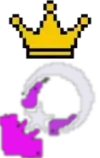
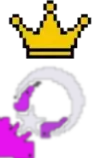
xcv

Changed region(s): [[0.0, 0.3797, 0.96, 1.0], [0.66, 0.8354, 0.69, 0.8608]]

diff --git a/files/templates/userpage.html b/files/templates/userpage.html
@@ -58,7 +58,7 @@
 								</span>
 								{% endif %}
 								{% if u.house %}
-									<img src="/assets/images/{{SITE_NAME}}/houses/{{u.house}}.webp?a=3" height="20" data-bs-toggle="tooltip" data-bs-placement="bottom" data-bs-original-title="House {{u.house}}">
+									<img src="/assets/images/{{SITE_NAME}}/houses/{{u.house}}.webp?a=4" height="20" data-bs-toggle="tooltip" data-bs-placement="bottom" data-bs-original-title="House {{u.house}}">
 								{% endif %}
 
 								{% if u.verified %}<span><i class="fas fa-badge-check align-middle ml-1" style="color:{% if u.verifiedcolor %}#{{u.verifiedcolor}}{% else %}#1DA1F2{% endif %}" data-bs-toggle="tooltip" data-bs-placement="bottom" data-bs-original-title="{{u.verified}}"></i></span>{% endif %}
@@ -353,7 +353,7 @@
 					{% if u.unban_utc %}<h5 class="text-primary">>{{u.unban_string}}</h5>{% endif %}
 				{% endif %}
 				{% if u.house %}
-					<img src="/assets/images/{{SITE_NAME}}/houses/{{u.house}}.webp?a=3" height="20" data-bs-toggle="tooltip" data-bs-placement="bottom" data-bs-original-title="House {{u.house}}">
+					<img src="/assets/images/{{SITE_NAME}}/houses/{{u.house}}.webp?a=4" height="20" data-bs-toggle="tooltip" data-bs-placement="bottom" data-bs-original-title="House {{u.house}}">
 				{% endif %}
 
 				{% if u.verified %}<span><i class="fas fa-badge-check align-middle ml-1" style="color:{% if u.verifiedcolor %}#{{u.verifiedcolor}}{% else %}#1DA1F2{% endif %}" data-bs-toggle="tooltip" data-bs-placement="bottom" data-bs-original-title="{{u.verified}}"></i></span>&nbsp;{% endif %}

diff --git a/files/templates/submission.html b/files/templates/submission.html
@@ -449,7 +449,7 @@
 							👻
 						{% else %}
 							{% if p.author.house %}
-								<img src="/assets/images/{{SITE_NAME}}/houses/{{p.author.house}}.webp?a=3" height="20" data-bs-toggle="tooltip" data-bs-placement="bottom" data-bs-original-title="House {{p.author.house}}">
+								<img src="/assets/images/{{SITE_NAME}}/houses/{{p.author.house}}.webp?a=4" height="20" data-bs-toggle="tooltip" data-bs-placement="bottom" data-bs-original-title="House {{p.author.house}}">
 							{% endif %}
 
 							{% if p.author.verified %}<i class="fas fa-badge-check align-middle ml-1" style="color:{% if p.author.verifiedcolor %}#{{p.author.verifiedcolor}}{% else %}#1DA1F2{% endif %}" data-bs-toggle="tooltip" data-bs-placement="bottom" data-bs-original-title="{{p.author.verified}}"></i>

diff --git a/files/templates/comments.html b/files/templates/comments.html
@@ -225,7 +225,7 @@
 					👻
 				{% else %}
 					{% if c.author.house %}
-						<img src="/assets/images/{{SITE_NAME}}/houses/{{c.author.house}}.webp?a=3" height="20" data-bs-toggle="tooltip" data-bs-placement="bottom" data-bs-original-title="House {{c.author.house}}">
+						<img src="/assets/images/{{SITE_NAME}}/houses/{{c.author.house}}.webp?a=4" height="20" data-bs-toggle="tooltip" data-bs-placement="bottom" data-bs-original-title="House {{c.author.house}}">
 					{% endif %}
 
 					{% if c.author.verified %}<i class="fas fa-badge-check align-middle ml-1" style="color:{% if c.author.verifiedcolor %}#{{c.author.verifiedcolor}}{% else %}#1DA1F2{% endif %}" data-bs-toggle="tooltip" data-bs-placement="bottom" data-bs-original-title="{{c.author.verified}}"></i>

diff --git a/files/templates/submission_listing.html b/files/templates/submission_listing.html
@@ -185,7 +185,7 @@
 					👻
 				{% else %}
 					{% if p.author.house %}
-						<img src="/assets/images/{{SITE_NAME}}/houses/{{p.author.house}}.webp?a=3" height="20" data-bs-toggle="tooltip" data-bs-placement="bottom" data-bs-original-title="House {{p.author.house}}">
+						<img src="/assets/images/{{SITE_NAME}}/houses/{{p.author.house}}.webp?a=4" height="20" data-bs-toggle="tooltip" data-bs-placement="bottom" data-bs-original-title="House {{p.author.house}}">
 					{% endif %}
 
 					{% if p.author.verified %}<i class="fas fa-badge-check align-middle ml-1" style="color:{% if p.author.verifiedcolor %}#{{p.author.verifiedcolor}}{% else %}#1DA1F2{% endif %}" data-bs-toggle="tooltip" data-bs-placement="bottom" data-bs-original-title="{{p.author.verified}}"></i>
